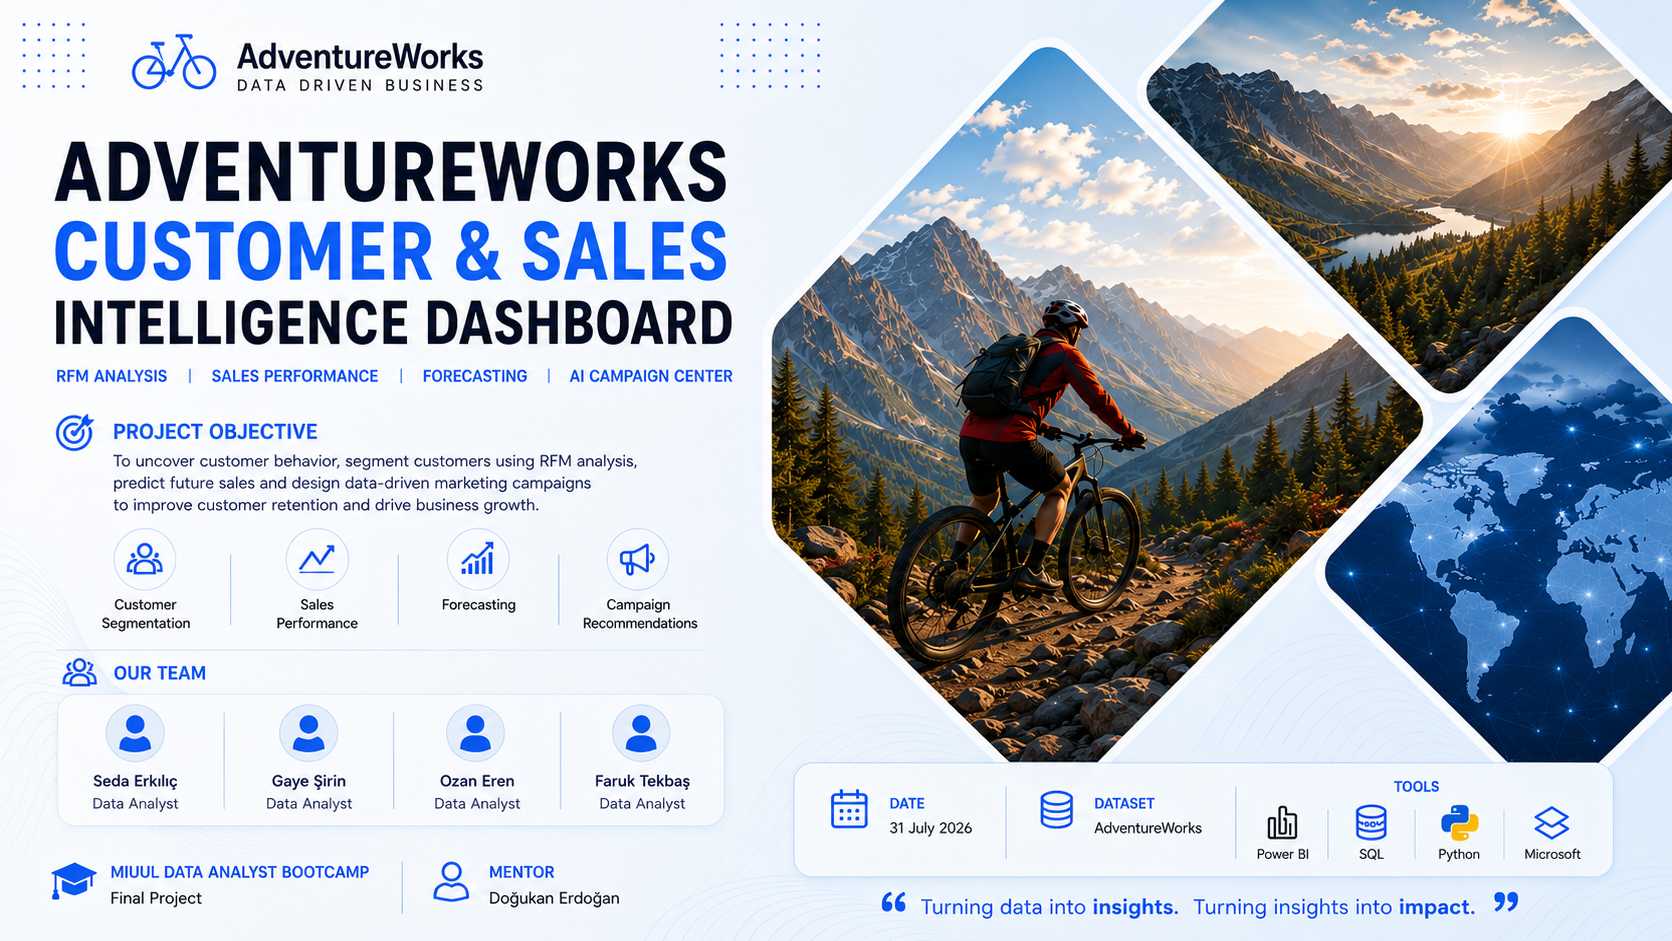
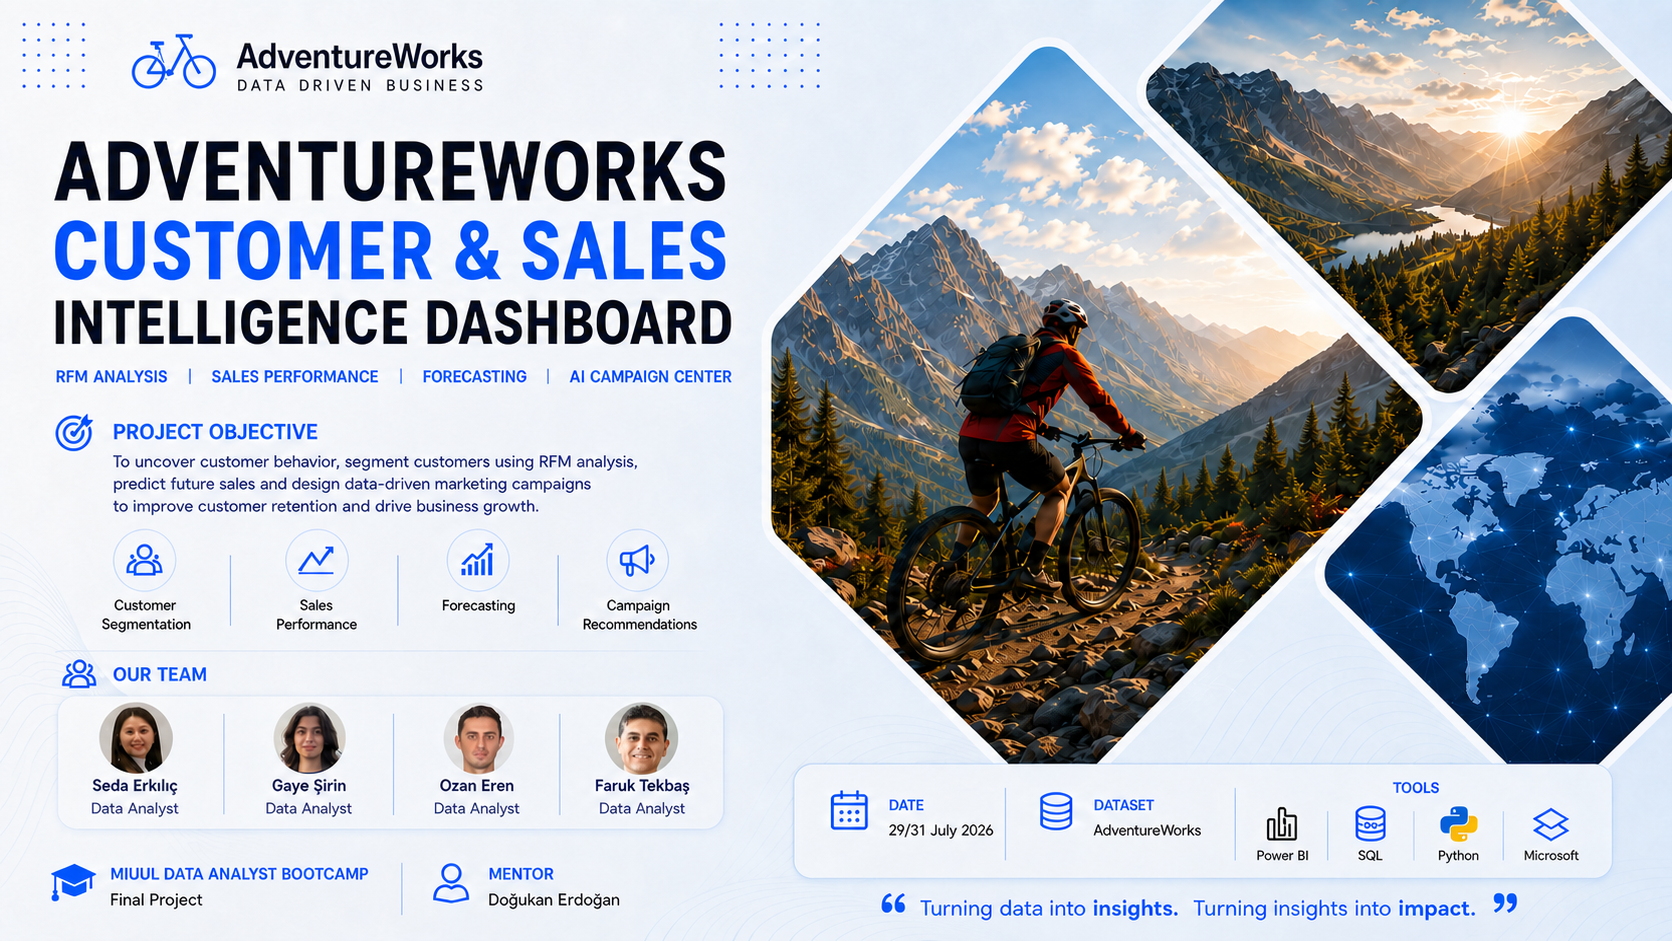
Enhance presentation cover and stabilize Beren voice playback

diff --git a/app/globals.css b/app/globals.css
@@ -112,6 +112,29 @@
   to { --intro-light-angle: 360deg; }
 }
 
+@keyframes cover-stage-aurora-drift {
+  0%, 100% { transform: translate3d(-3%, -2%, 0) scale(1.04) rotate(-2deg); }
+  50% { transform: translate3d(4%, 3%, 0) scale(1.12) rotate(3deg); }
+}
+
+@keyframes cover-dashboard-button-wave {
+  0%, 60%, 76%, 100% { box-shadow: 0 10px 24px rgba(2, 12, 32, .3); }
+  68% { box-shadow: 0 10px 26px rgba(37, 99, 235, .42), 0 0 12px rgba(56, 189, 248, .26), 0 3px 10px rgba(251, 191, 36, .18); }
+}
+
+@keyframes cover-dashboard-shine {
+  0%, 60% { transform: translateX(-190%) skewX(-18deg); opacity: 0; }
+  64% { opacity: .42; }
+  73% { transform: translateX(310%) skewX(-18deg); opacity: 0; }
+  100% { transform: translateX(310%) skewX(-18deg); opacity: 0; }
+}
+
+@keyframes cover-dashboard-text-wave {
+  0%, 63%, 74%, 100% { transform: translateY(0); }
+  67% { transform: translateY(-1px); }
+  70% { transform: translateY(1px); }
+}
+
 @keyframes intro-start-button-glow {
   0%, 58%, 100% { box-shadow: 0 14px 30px rgba(37, 99, 235, .35); }
   68% { box-shadow: 0 14px 34px rgba(37, 99, 235, .48), 0 0 26px rgba(56, 189, 248, .5), 0 0 8px rgba(251, 191, 36, .28); }
@@ -143,6 +166,82 @@
   -webkit-mask: linear-gradient(#000 0 0) content-box, linear-gradient(#000 0 0);
   -webkit-mask-composite: xor;
   mask-composite: exclude;
+}
+
+.cover-border-light {
+  inset: 10px;
+  border-radius: 28px;
+  padding: 3px;
+  background: conic-gradient(
+    from var(--intro-light-angle),
+    transparent 0deg 286deg,
+    rgba(14, 165, 233, .08) 298deg,
+    rgba(14, 165, 233, .72) 314deg,
+    rgba(37, 99, 235, 1) 326deg,
+    rgba(8, 47, 120, 1) 334deg,
+    rgba(251, 191, 36, 1) 341deg,
+    rgba(253, 230, 138, .98) 346deg,
+    rgba(251, 191, 36, .28) 354deg,
+    transparent 360deg
+  );
+  filter: drop-shadow(0 0 5px rgba(14, 165, 233, .72)) drop-shadow(0 0 12px rgba(37, 99, 235, .42)) drop-shadow(0 0 7px rgba(251, 191, 36, .32));
+  animation: intro-border-light-orbit 5.5s linear infinite;
+  -webkit-mask: linear-gradient(#000 0 0) content-box, linear-gradient(#000 0 0);
+  -webkit-mask-composite: xor;
+  mask-composite: exclude;
+}
+
+.cover-stage-background {
+  isolation: isolate;
+  overflow: hidden;
+  background:
+    radial-gradient(circle at 16% 20%, rgba(14, 165, 233, .28), transparent 30%),
+    radial-gradient(circle at 84% 76%, rgba(37, 99, 235, .34), transparent 34%),
+    linear-gradient(135deg, #041329 0%, #082c59 48%, #061a36 100%);
+}
+
+.cover-stage-background::before {
+  content: '';
+  position: absolute;
+  inset: 0;
+  pointer-events: none;
+  background-image: linear-gradient(rgba(125, 211, 252, .045) 1px, transparent 1px), linear-gradient(90deg, rgba(125, 211, 252, .045) 1px, transparent 1px);
+  background-size: 52px 52px;
+  mask-image: radial-gradient(circle at center, #000 0 34%, transparent 78%);
+}
+
+.cover-stage-aurora {
+  inset: -20%;
+  opacity: .82;
+  background:
+    radial-gradient(ellipse at 28% 38%, rgba(56, 189, 248, .3), transparent 34%),
+    radial-gradient(ellipse at 72% 60%, rgba(99, 102, 241, .25), transparent 36%),
+    radial-gradient(ellipse at 50% 86%, rgba(251, 191, 36, .1), transparent 25%);
+  filter: blur(38px);
+  animation: cover-stage-aurora-drift 11s ease-in-out infinite;
+}
+
+.cover-dashboard-button {
+  isolation: isolate;
+  overflow: hidden;
+  animation: cover-dashboard-button-wave 5.5s ease-in-out infinite;
+}
+
+.cover-dashboard-button::after {
+  content: '';
+  position: absolute;
+  z-index: 0;
+  inset: -35% auto -35% -18%;
+  width: 26%;
+  background: linear-gradient(90deg, transparent, rgba(253, 230, 138, .52), rgba(255, 255, 255, .65), transparent);
+  filter: blur(1px);
+  opacity: 0;
+  animation: cover-dashboard-shine 5.5s ease-in-out infinite;
+}
+
+.cover-dashboard-button-text {
+  display: inline-block;
+  animation: cover-dashboard-text-wave 5.5s ease-in-out infinite;
 }
 
 .intro-start-button {
@@ -416,6 +515,8 @@
   .mira-finale-balloon { animation: none; }
   .mira-welcome-aurora { animation: none; }
   .mira-welcome-aurora::before, .mira-welcome-orb { animation: none; }
-  .intro-border-light { animation: none; --intro-light-angle: 32deg; }
+  .cover-stage-aurora { animation: none; }
+  .cover-dashboard-button, .cover-dashboard-button::after, .cover-dashboard-button-text { animation: none; }
+  .intro-border-light, .cover-border-light { animation: none; --intro-light-angle: 32deg; }
   .intro-start-button, .intro-start-button::after { animation: none; }
 }

diff --git a/app/(dashboard)/ChatbotDrawer.js b/app/(dashboard)/ChatbotDrawer.js
@@ -226,10 +226,8 @@ export default function ChatbotDrawer() {
       return true;
     };
 
-    // A locally installed matching female voice starts immediately. The cloud
-    // voice remains a fallback for devices that do not have one.
-    if (playBrowserFallback()) return;
-
+    // Always use Beren's consistent cloud voice first. Browser speech remains
+    // a fallback only when the cloud TTS request actually fails.
     const controller = new AbortController();
     ttsAbortRef.current = controller;
 
@@ -243,8 +241,10 @@ export default function ChatbotDrawer() {
         if (!response.ok) throw new Error('TTS service is unavailable');
         const wav = await response.arrayBuffer();
         if (!wav.byteLength || !audioContext) throw new Error('TTS service returned no playable audio');
+        if (controller.signal.aborted) return;
 
         const audioBuffer = await audioContext.decodeAudioData(wav.slice(0));
+        if (controller.signal.aborted) return;
         const source = audioContext.createBufferSource();
         source.buffer = audioBuffer;
         source.connect(audioContext.destination);
@@ -256,6 +256,9 @@ export default function ChatbotDrawer() {
       })
       .catch((error) => {
         if (error.name !== 'AbortError') playBrowserFallback();
+      })
+      .finally(() => {
+        if (ttsAbortRef.current === controller) ttsAbortRef.current = null;
       });
   }, [getBestVoice, lang, prepareAudio, stopSpeaking]);
 
@@ -466,7 +469,15 @@ export default function ChatbotDrawer() {
               <div className={`w-7 h-7 rounded-full shrink-0 flex items-center justify-center text-xs font-bold ${
                 msg.role === 'user' ? 'bg-indigo-600 text-white' : 'bg-slate-800 text-blue-400'
               }`}>
-                {msg.role === 'user' ? <User size={14} /> : <><span className="sr-only">Beren</span>{/* eslint-disable-next-line @next/next/no-img-element */}<img src="/assets/beren-avatar.png" alt="Beren" className="h-full w-full rounded-full object-cover" /></>}
+                {msg.role === 'user' ? (
+                  <User size={14} />
+                ) : (
+                  <>
+                    <span className="sr-only">Beren</span>
+                    {/* eslint-disable-next-line @next/next/no-img-element */}
+                    <img src="/assets/beren-avatar.png" alt="Beren" className="h-full w-full rounded-full object-cover" />
+                  </>
+                )}
               </div>
               <div className={`max-w-[78%] px-3.5 py-2.5 rounded-2xl text-xs leading-relaxed ${
                 msg.role === 'user'

diff --git a/app/page.js b/app/page.js
@@ -104,7 +104,6 @@ export default function IntroPage() {
           controls
           muted={isMuted}
           preload="auto"
-          poster="/assets/intro-light.png"
           onVolumeChange={(event) => setIsMuted(event.currentTarget.muted || event.currentTarget.volume === 0)}
         />
       )}
@@ -144,19 +143,21 @@ export default function IntroPage() {
 
       {ended && (
         <div 
-          className={`absolute inset-0 bg-white flex flex-col justify-center items-center z-10 transition-opacity duration-1000 ${visible ? 'opacity-100' : 'opacity-0'}`}
+          className={`cover-stage-background absolute inset-0 flex flex-col justify-center items-center z-10 transition-opacity duration-1000 ${visible ? 'opacity-100' : 'opacity-0'}`}
         >
+          <div className="cover-stage-aurora absolute inset-0 pointer-events-none" aria-hidden="true" />
+          <div className="cover-border-light absolute z-20 pointer-events-none" aria-hidden="true" />
           {/* eslint-disable-next-line @next/next/no-img-element */}
           <img 
             src="/assets/intro-light.png" 
             alt="Dashboard Presentation" 
-            className="max-w-[90%] max-h-[70vh] object-contain mb-8 shadow-xl rounded-2xl"
+            className="relative z-10 max-w-[90%] max-h-[70vh] object-contain mb-8 shadow-[0_24px_70px_rgba(2,12,32,.55)] rounded-2xl ring-1 ring-white/70"
           />
           <Link 
             href="/dashboard" 
-            className="px-10 py-4 text-2xl font-bold text-white bg-gradient-to-r from-blue-600 to-blue-800 rounded-full shadow-lg hover:scale-105 active:scale-95 hover:shadow-xl transition-all duration-300 decoration-transparent"
+            className="cover-dashboard-button relative z-10 px-10 py-4 text-2xl font-bold text-white bg-gradient-to-r from-blue-600 to-blue-800 rounded-full shadow-lg hover:scale-105 active:scale-95 hover:shadow-xl transition-all duration-300 decoration-transparent"
           >
-            Go to Dashboard
+            <span className="cover-dashboard-button-text relative z-10">Go to Dashboard</span>
           </Link>
         </div>
       )}
